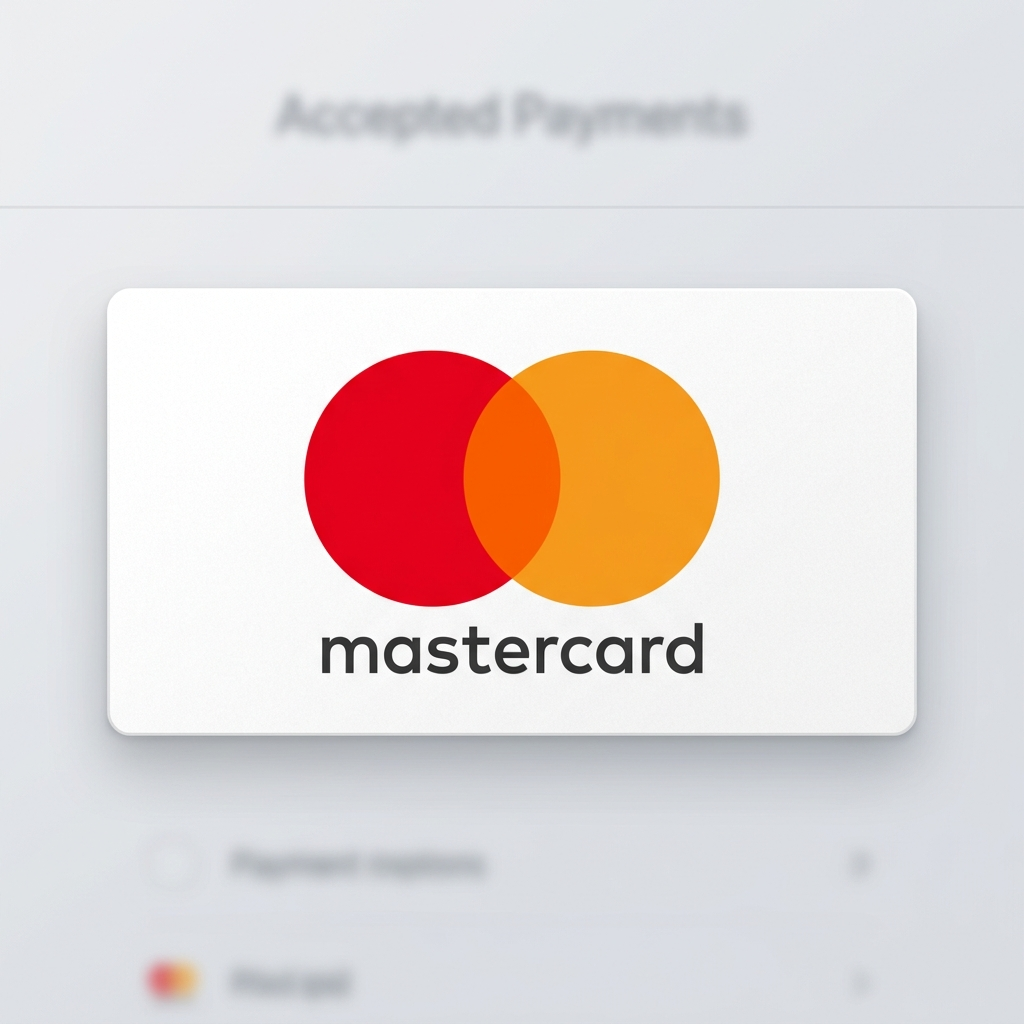
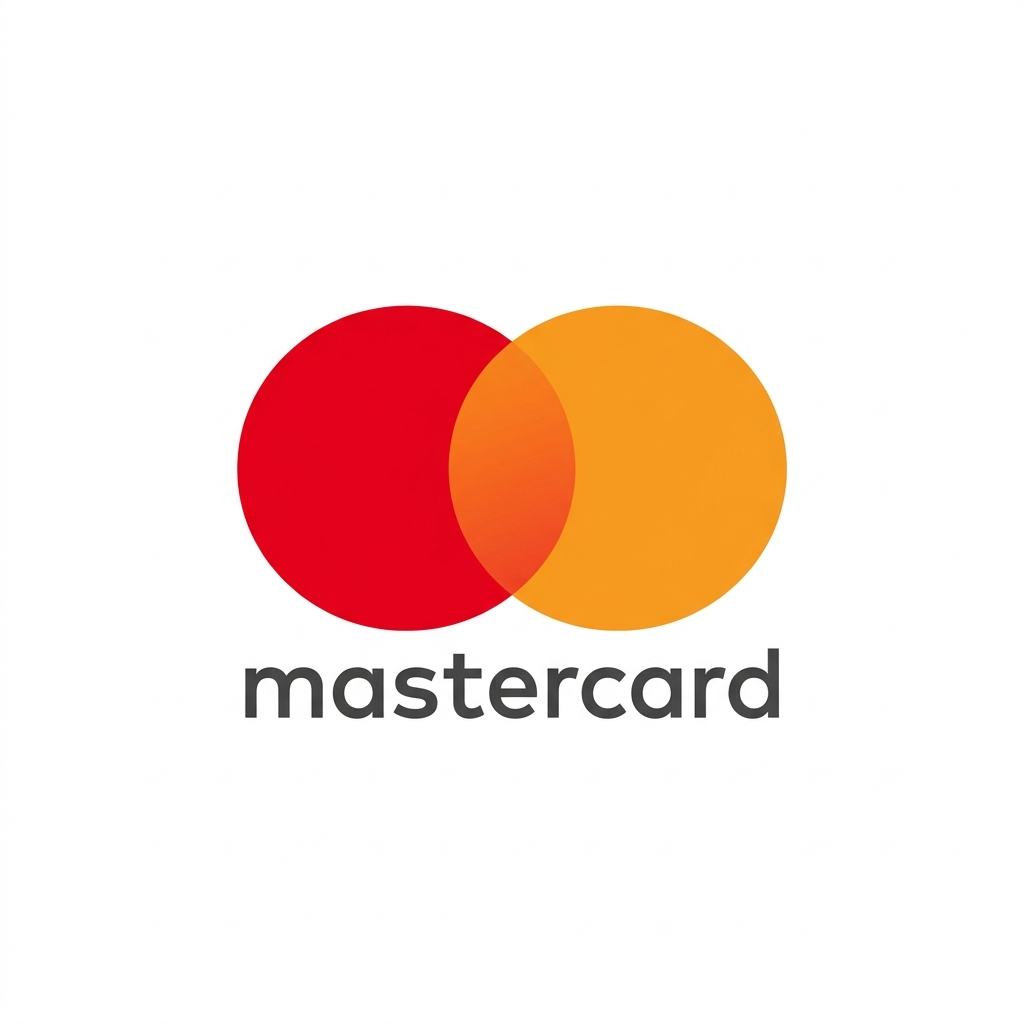
feat: implement PaymentCheckout page with Zoho payment gateway integration and card assets

diff --git a/goimomi-holidays-frontend/src/pages/General/PaymentCheckout/PaymentCheckout.jsx b/goimomi-holidays-frontend/src/pages/General/PaymentCheckout/PaymentCheckout.jsx
@@ -232,11 +232,19 @@ const PaymentCheckout = () => {
                       <span className="text-[10px] bg-emerald-100 text-emerald-800 font-extrabold px-2 py-0.5 rounded-full uppercase tracking-wider">Enabled</span>
                     </div>
                     <p className="text-[11px] font-semibold text-slate-500">Collect payments globally using credit or debit cards.</p>
-                    <div className="flex gap-2 mt-2 items-center">
-                      <span className="text-[9px] text-slate-400 font-extrabold uppercase mr-1">Accepted Cards:</span>
-                      <img src="/rupay.png" alt="RuPay" className="h-6 object-contain border border-slate-200 rounded px-1 bg-white" />
-                      <img src="/mastercard.png" alt="Mastercard" className="h-6 object-contain border border-slate-200 rounded px-1 bg-white" />
-                      <img src="/visa.png" alt="Visa" className="h-6 object-contain border border-slate-200 rounded px-1 bg-white" />
+                    <div className="flex gap-2 mt-3 items-center flex-wrap">
+                      <span className="text-[9px] text-slate-400 font-extrabold uppercase tracking-widest">Accepted Cards:</span>
+                      <div className="flex gap-1.5 items-center">
+                        <div className="flex items-center justify-center h-7 w-14 bg-white border border-slate-200 rounded-md overflow-hidden shadow-sm">
+                          <img src="/rupay.png" alt="RuPay" className="h-5 w-auto object-contain" />
+                        </div>
+                        <div className="flex items-center justify-center h-7 w-14 bg-white border border-slate-200 rounded-md overflow-hidden shadow-sm">
+                          <img src="/mastercard.png" alt="Mastercard" className="h-5 w-auto object-contain" />
+                        </div>
+                        <div className="flex items-center justify-center h-7 w-14 bg-white border border-slate-200 rounded-md overflow-hidden shadow-sm">
+                          <img src="/visa.png" alt="Visa" className="h-5 w-auto object-contain" />
+                        </div>
+                      </div>
                     </div>
                   </div>
 
